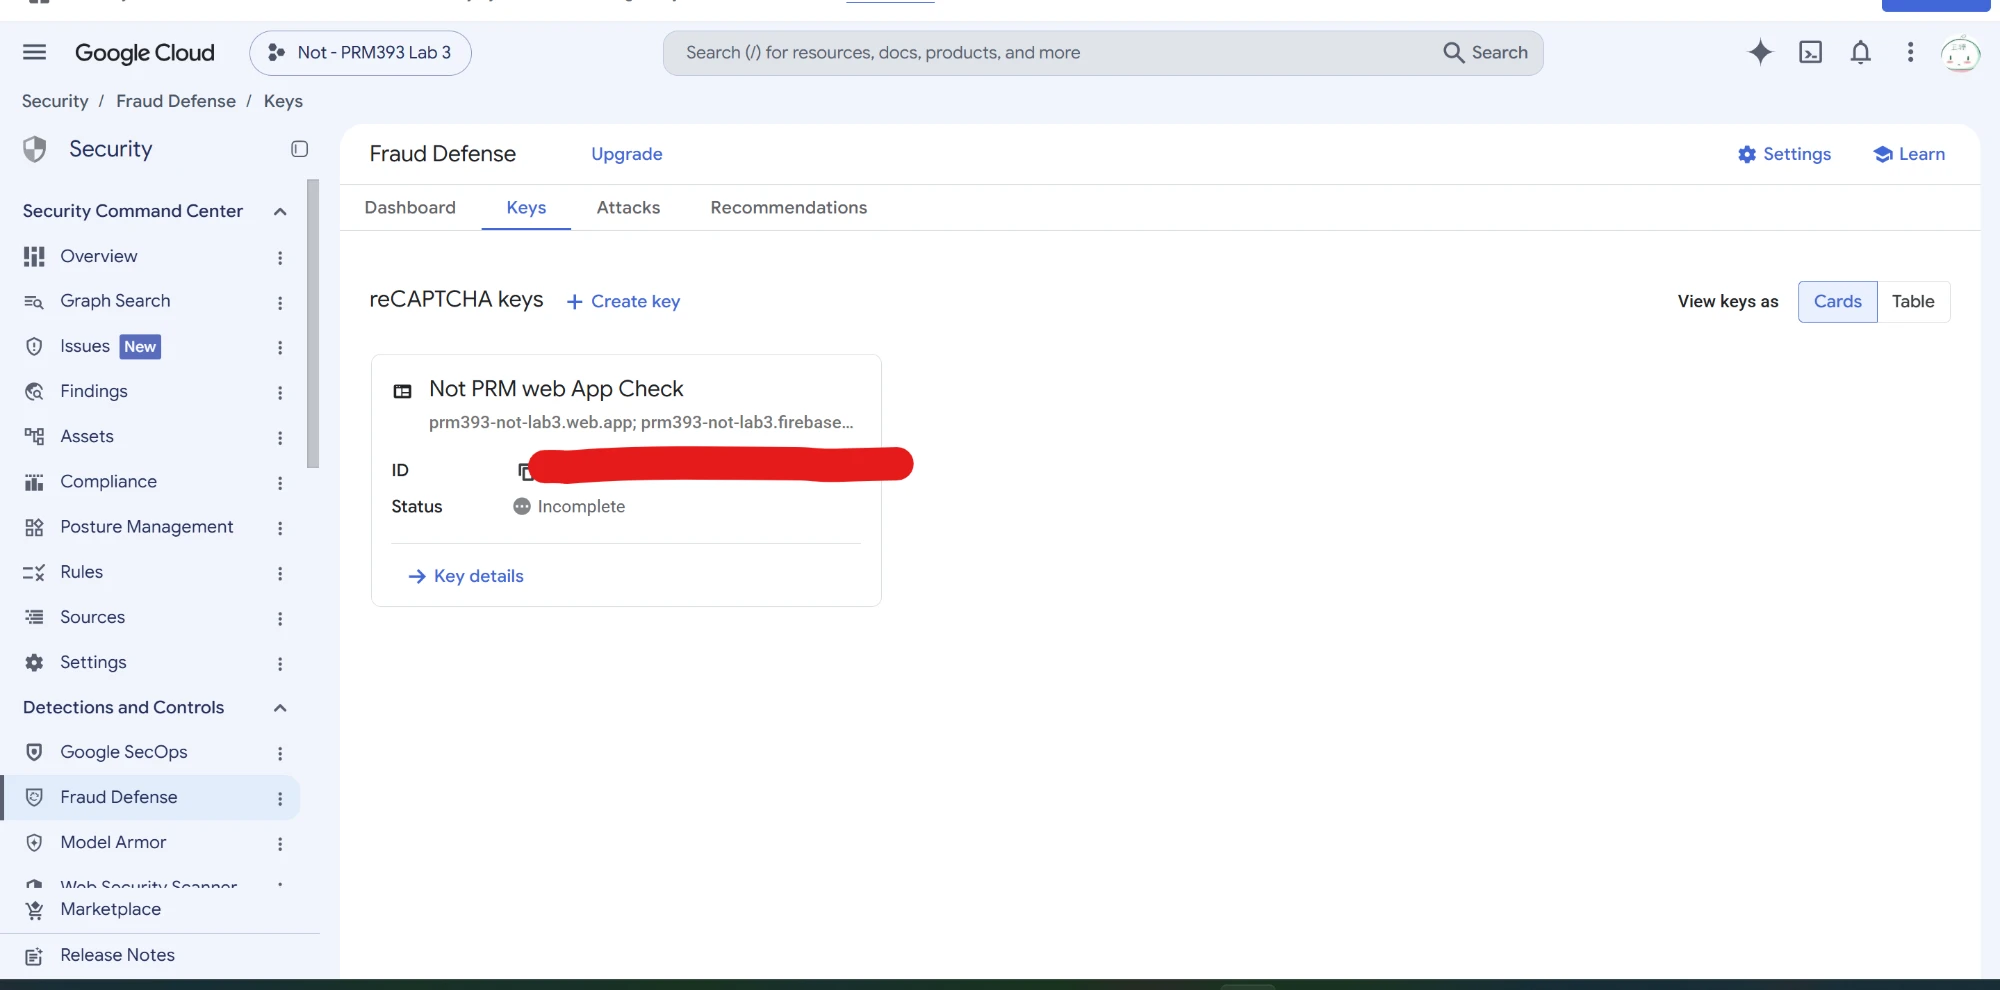
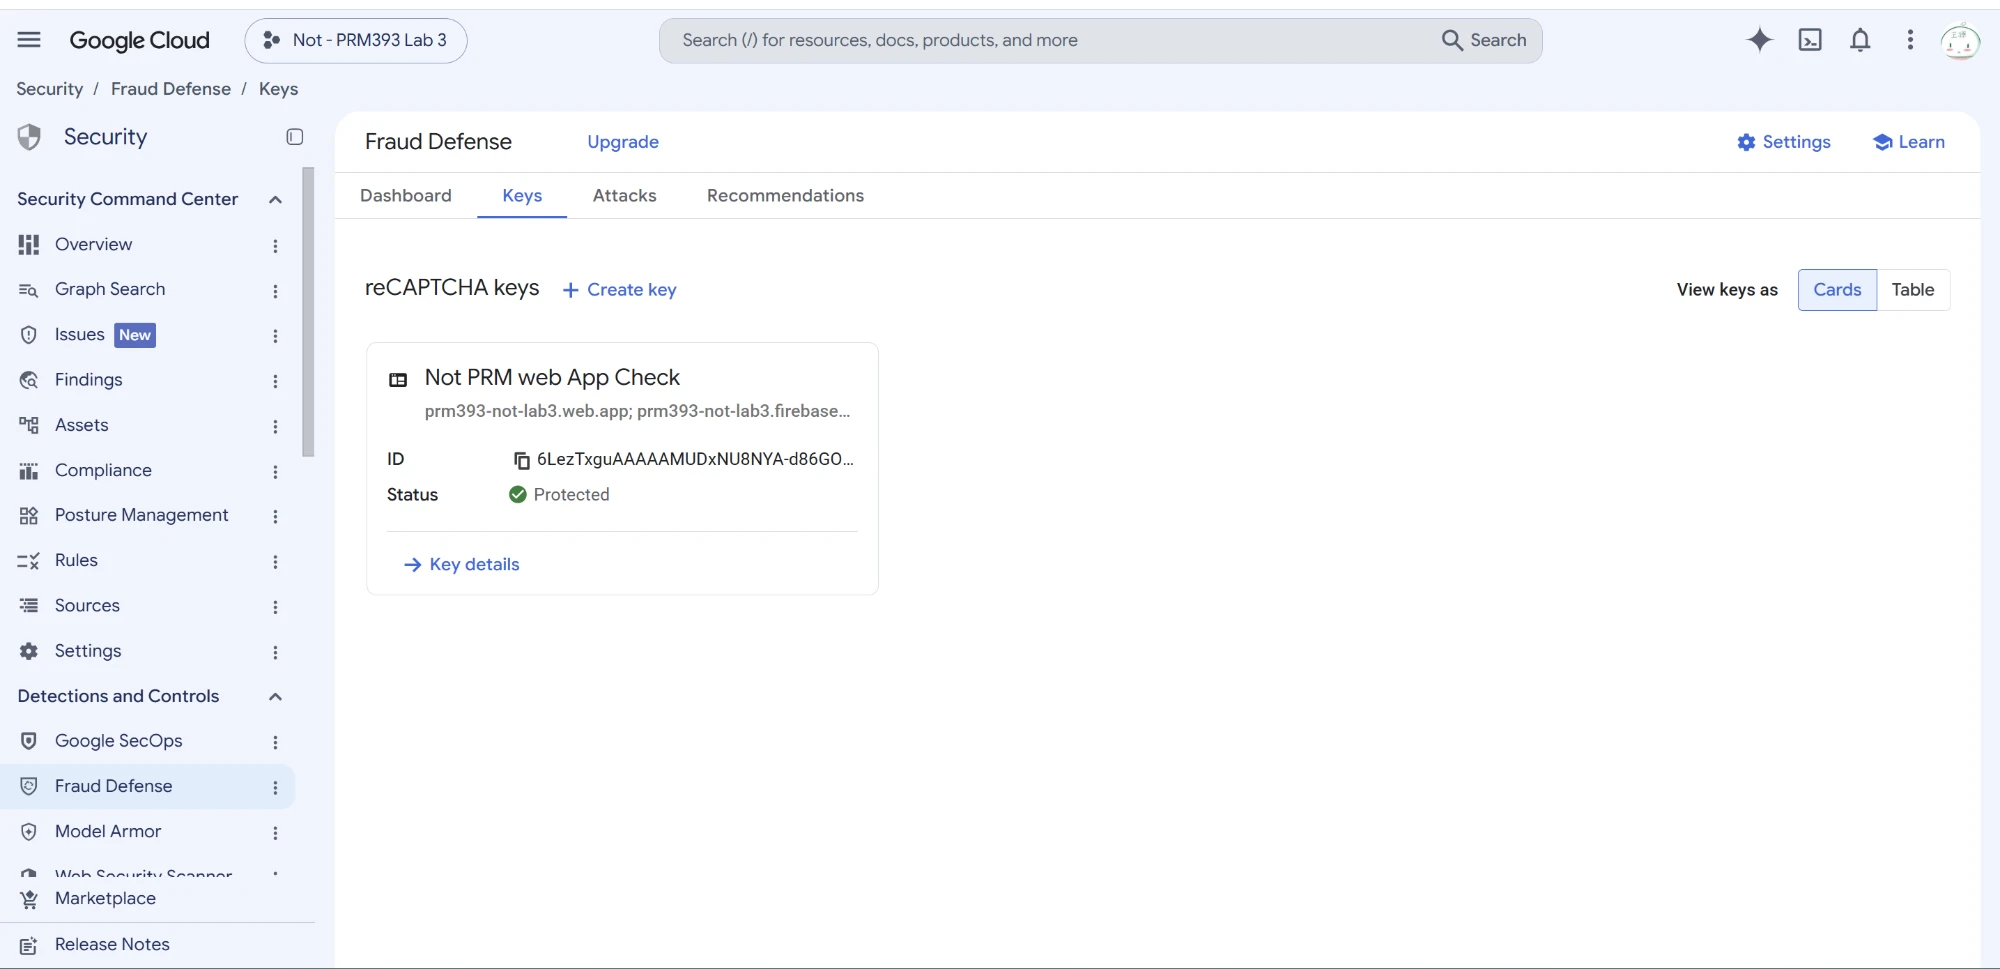
docs(evidence): add Auth App Check metrics and the protected key status

diff --git a/evidence/app-check/README.md b/evidence/app-check/README.md
@@ -14,7 +14,8 @@ Chụp ngày 10/11/2026, sau Deploy #87 (lần build đầu tiên có
 |---|---|
 | [`apps-registered.webp`](apps-registered.webp) | Firebase → App Check → Apps: `lab03 (web)` **Registered** với Fraud Defense. `lab03 (android)` chưa đăng ký (xem phần "Chưa Enforce"). |
 | [`firestore-metrics.webp`](firestore-metrics.webp) | App Check → APIs → Cloud Firestore, 7 ngày: **43 request Verified** (bắt đầu từ 10/11, đúng ngày deploy), 641 "outdated client", **0 unknown origin, 0 invalid**. Trạng thái **Monitoring**. |
-| [`fraud-defense-key.webp`](fraud-defense-key.webp) | Google Cloud → Security → Fraud Defense → Keys: key Website `Not PRM web App Check` cho `prm393-not-lab3.web.app` và `prm393-not-lab3.firebaseapp.com`. |
+| [`fraud-defense-key.webp`](fraud-defense-key.webp) | Google Cloud → Security → Fraud Defense → Keys: key Website `Not PRM web App Check` cho `prm393-not-lab3.web.app` và `prm393-not-lab3.firebaseapp.com`, ID là site key (công khai), trạng thái **Protected** (key đã nhận lượt xác minh thật). |
+| [`auth-metrics.webp`](auth-metrics.webp) | App Check → APIs → Authentication (preview), 7 ngày: **6 / 20 request Verified** (đăng nhập từ web admin), 14 "unknown origin", 0 invalid. Trạng thái **Monitoring**. |
 | [`deploy-run.webp`](deploy-run.webp) | GitHub Actions → Deploy #87 (chạy tay trên `main`, commit `325d560`): build web admin kèm site key và deploy thành công. |
 | [`admin-dashboard.webp`](admin-dashboard.webp) | Web admin vẫn đăng nhập (vai trò Admin) và đọc Firestore bình thường khi App Check đã bật. |
 
@@ -25,6 +26,10 @@ Chụp ngày 10/11/2026, sau Deploy #87 (lần build đầu tiên có
   Android (và bản web app ở `/`). App Check cho mobile nằm ở nhánh `feat/ai`
   (Play Integrity, debug provider cho máy ảo), chưa merge.
 - **Unknown origin / invalid = 0**: không có request giả mạo hay token sai.
+
+Với **Authentication**, 14 request "unknown origin" là đăng nhập từ client
+không gửi kèm thông tin App Check (app Android và bản web app ở `/`, cùng các
+lần làm mới phiên). Số này sẽ chuyển sang Verified khi mobile có App Check.
 
 ## Chưa Enforce
 
